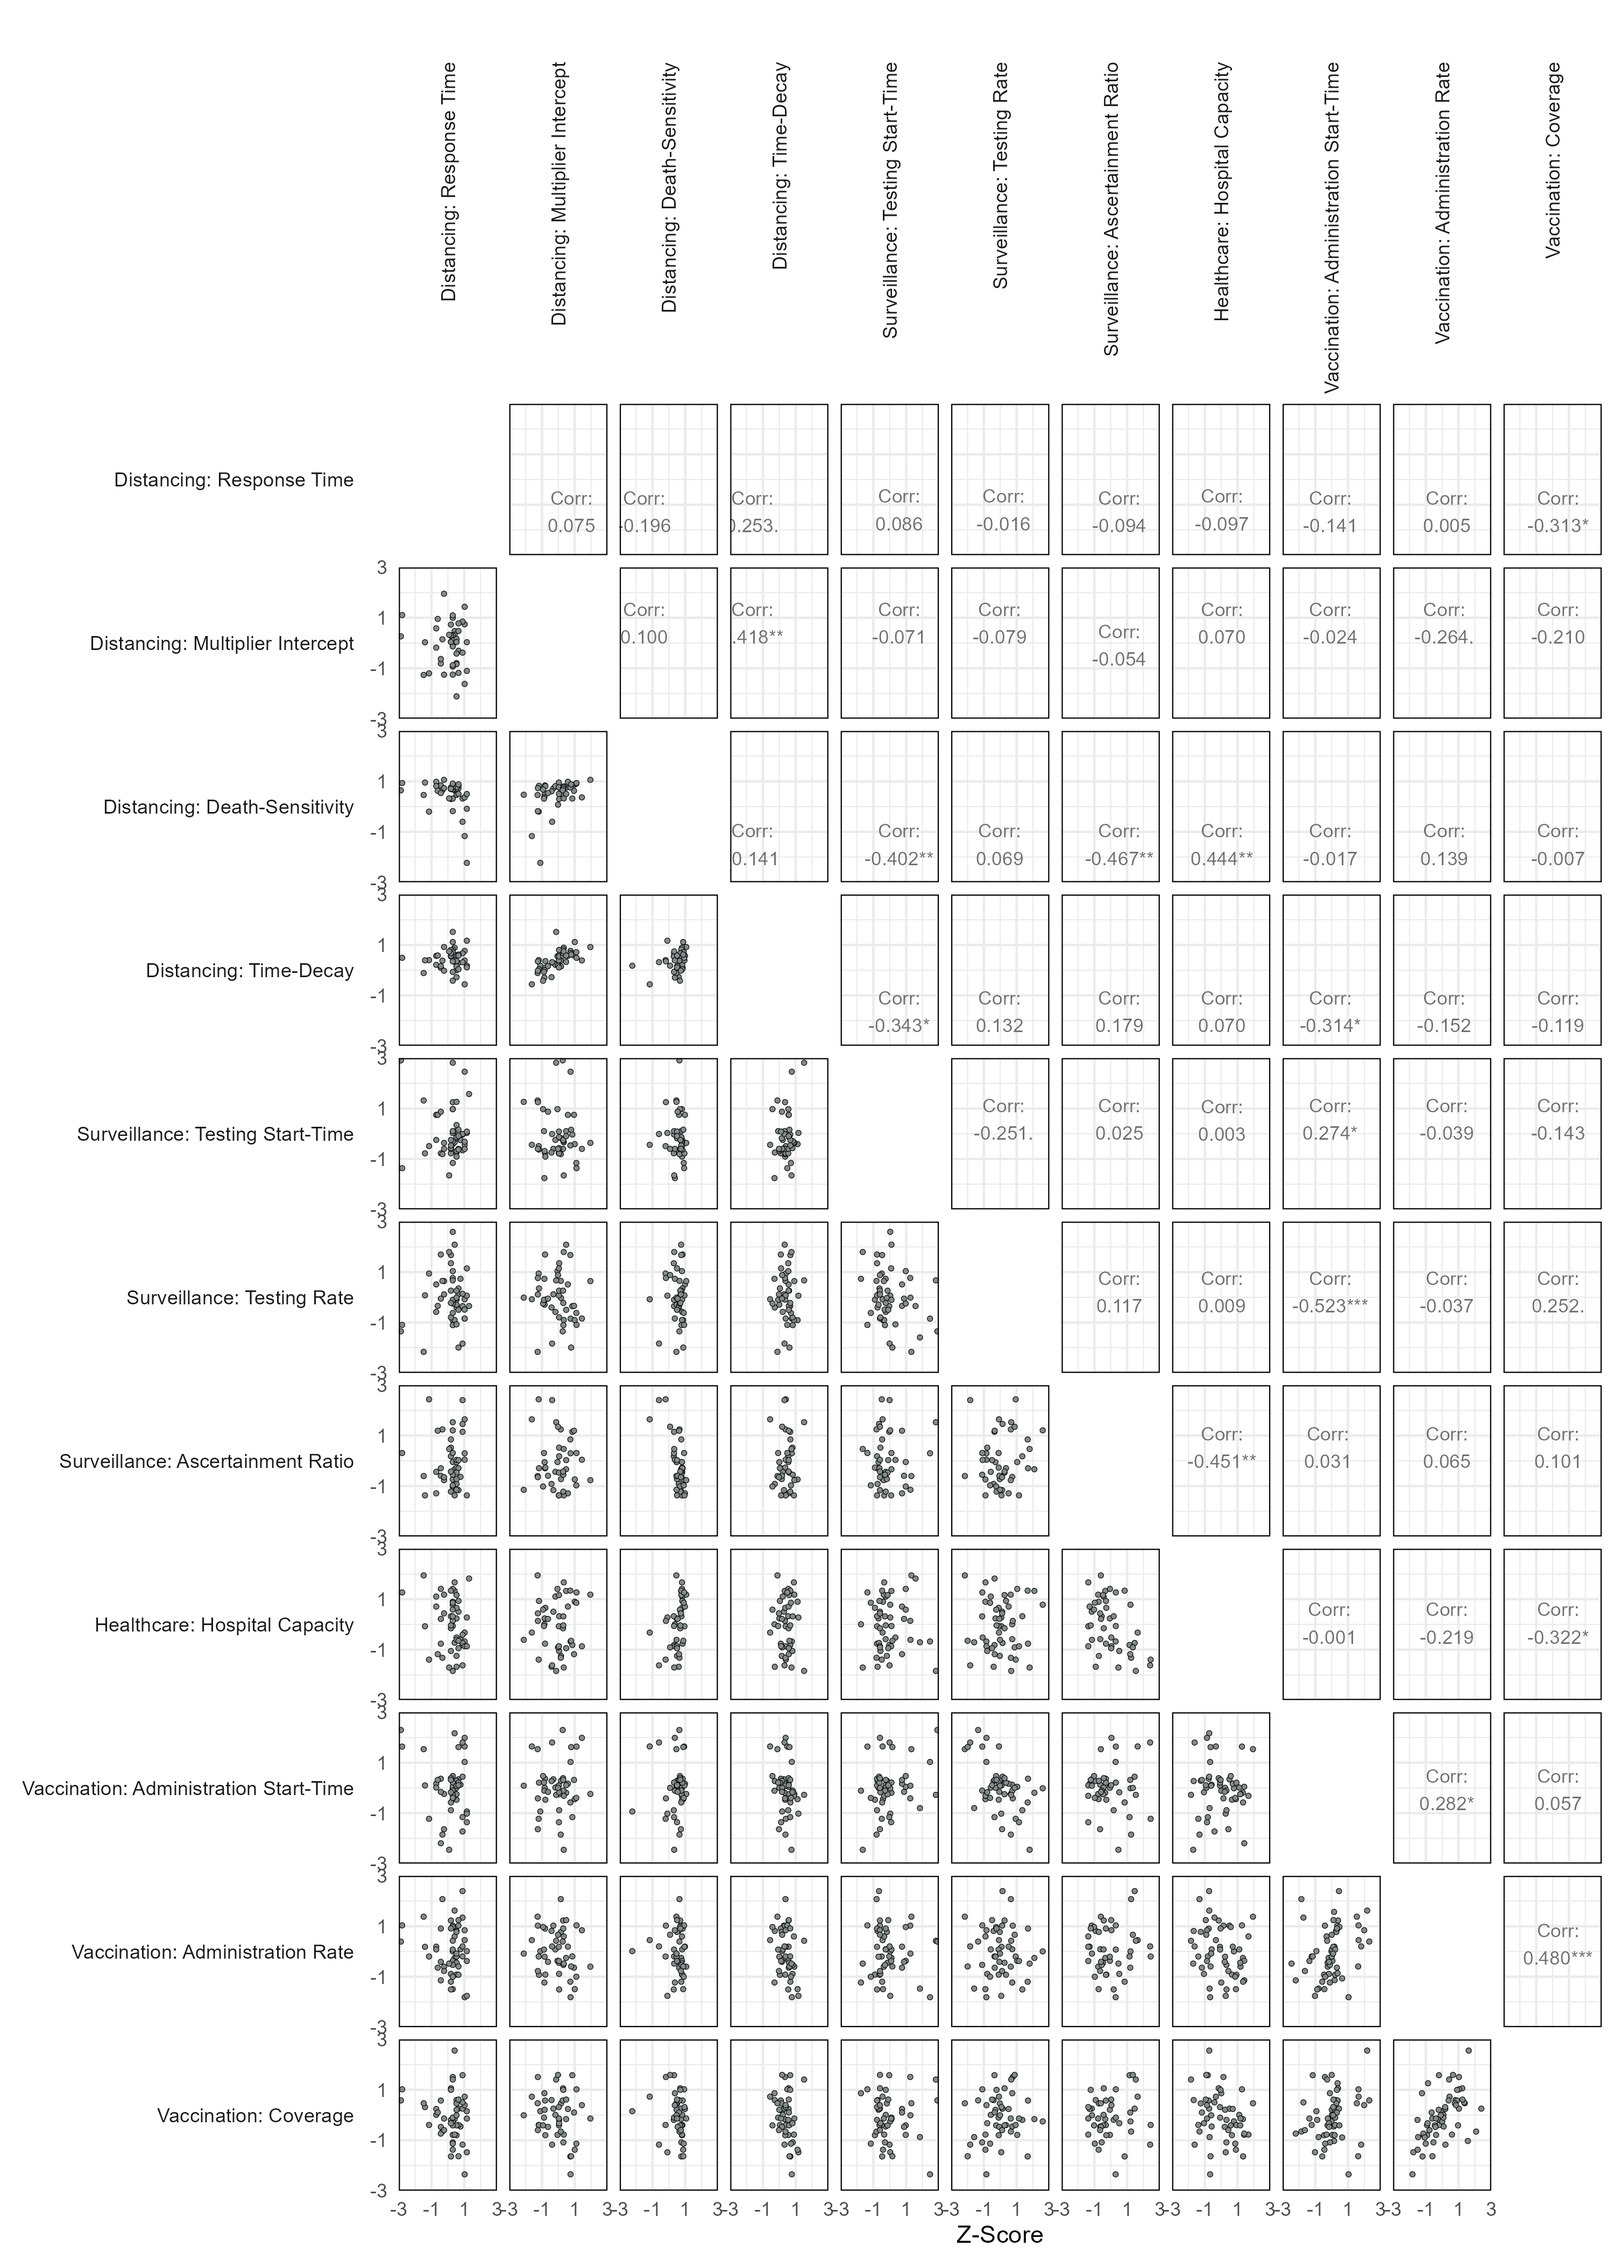
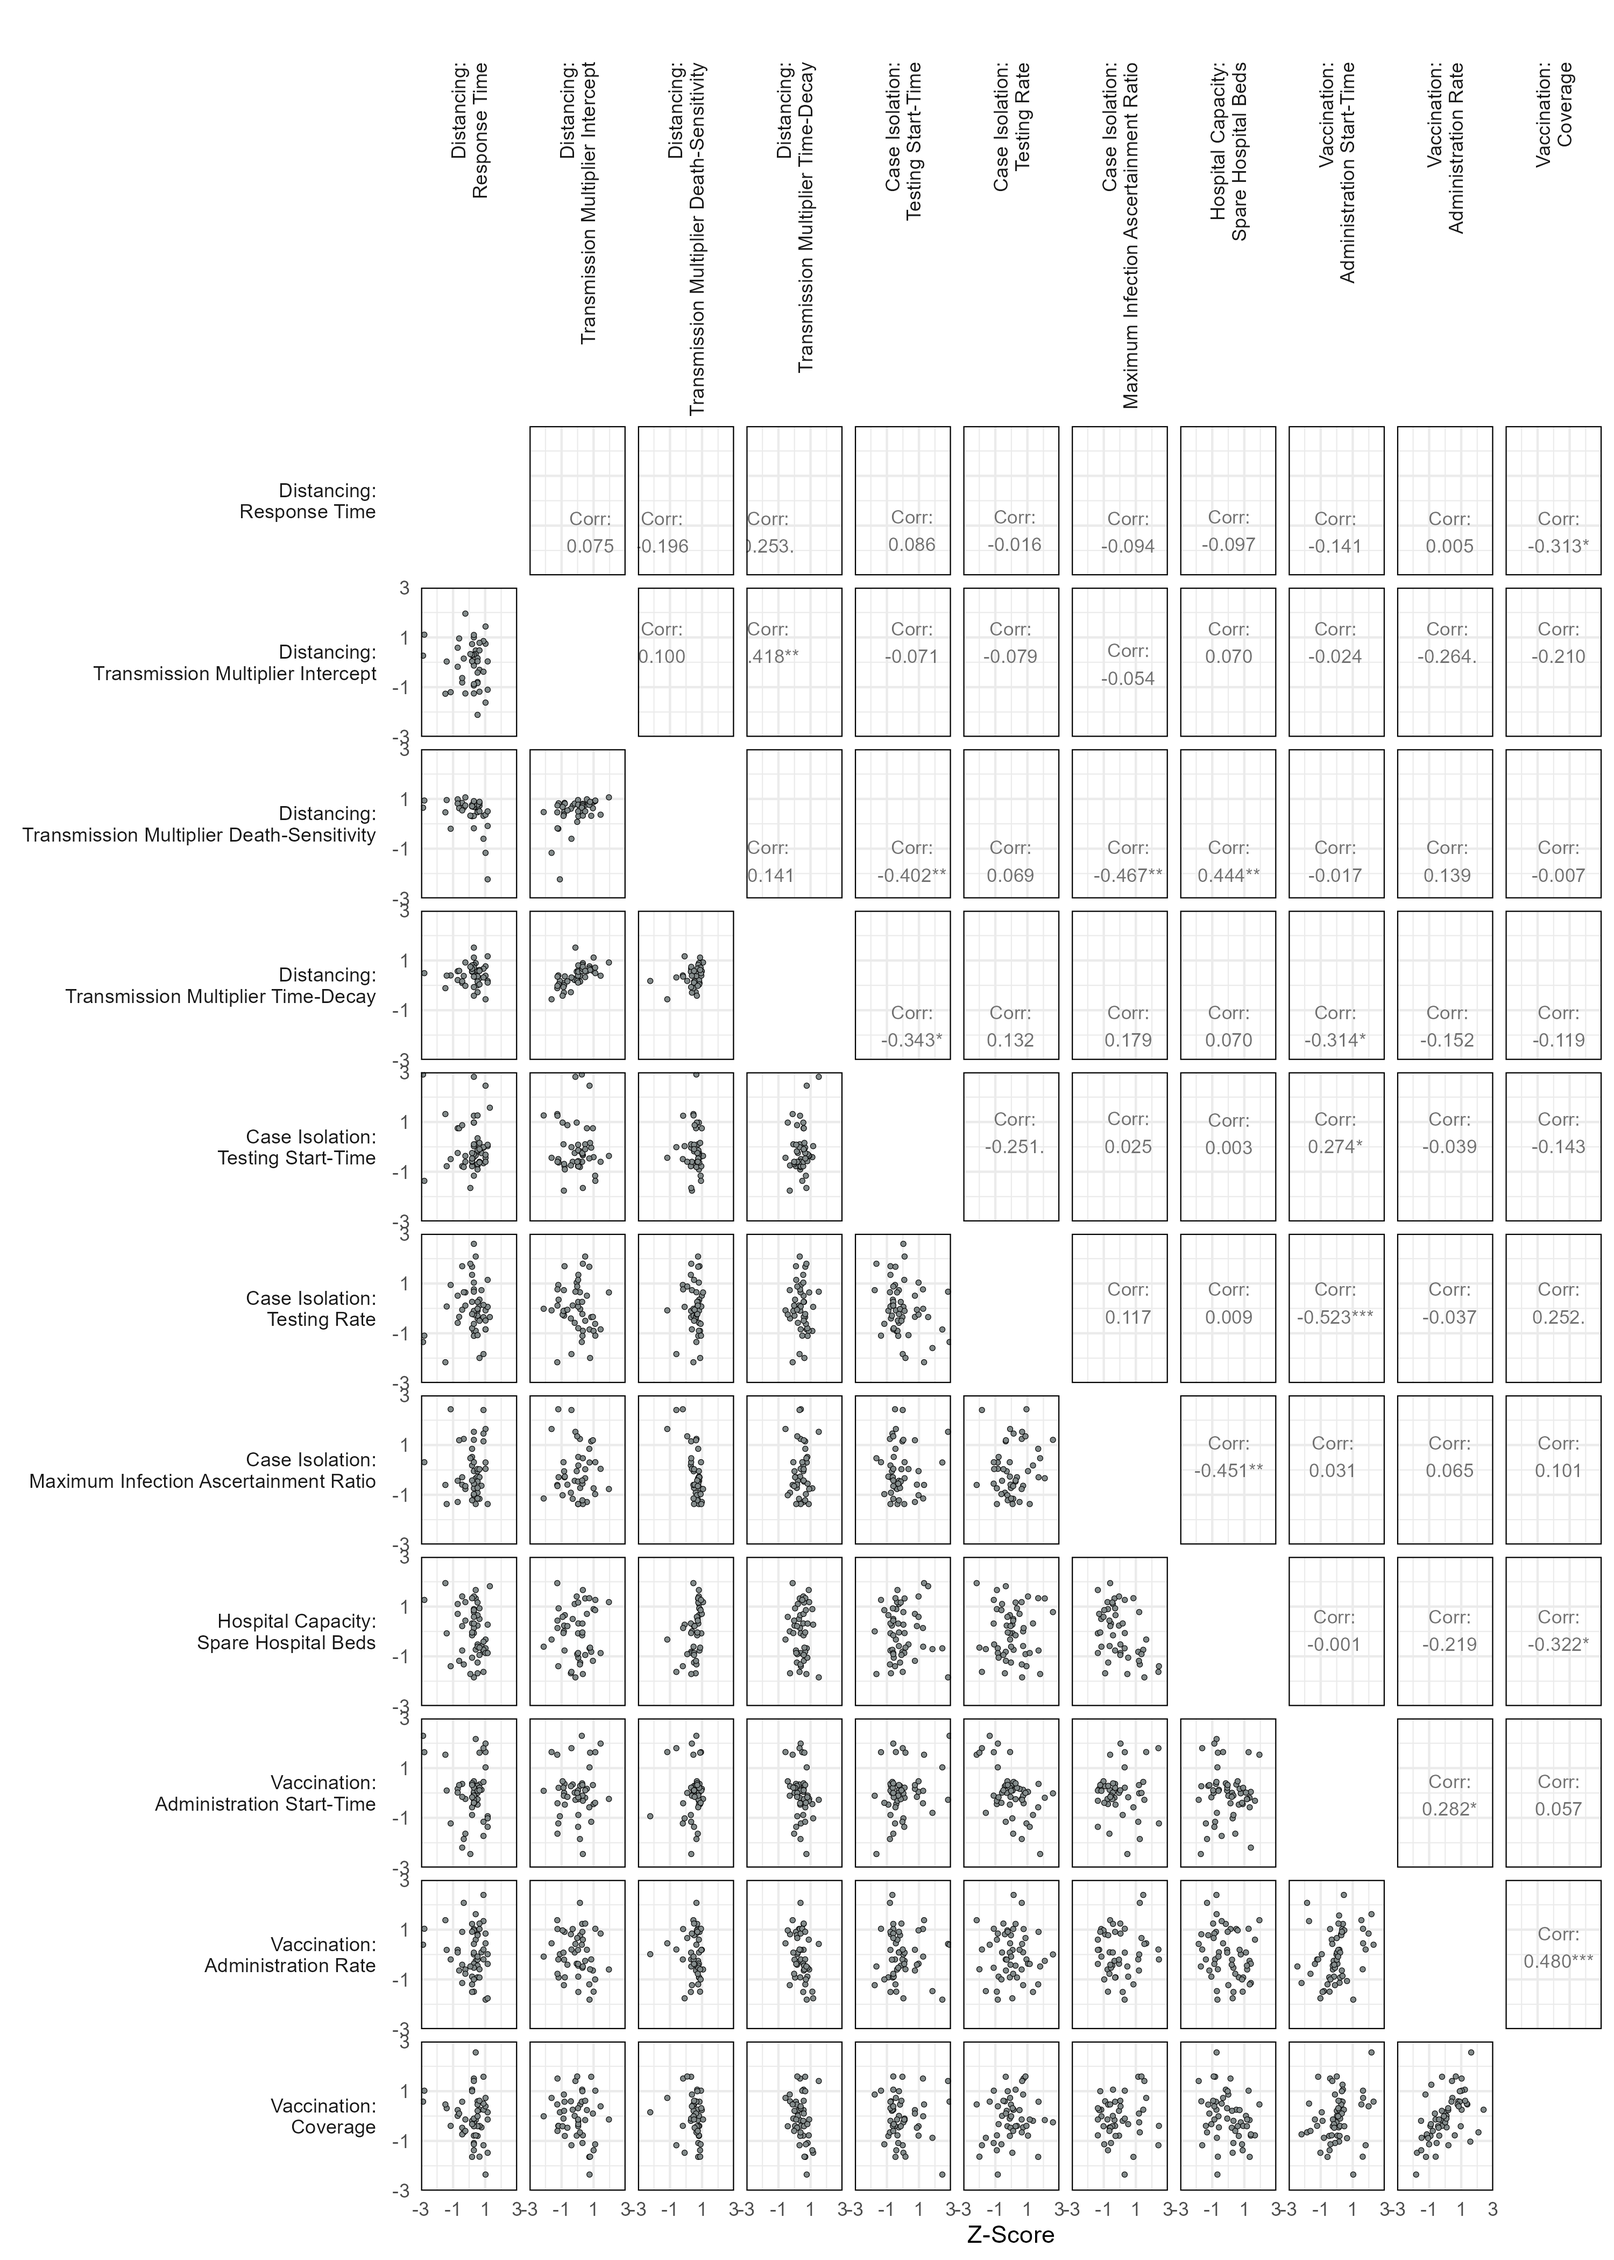
make figure terminology consistent with text

diff --git a/dd_single_plot.m b/dd_single_plot.m
@@ -147,7 +147,7 @@ ax.YColor = 'k';
 
 grid on;
 box on;
-% legend([hh1,hh2,hh3,hh4,hh5],'Prevalence (per 10m)','Hospital Occupancy (per 100m)','Hospital Capacity (per 100m)',... %%%%%
+% legend([hh1,hh2,hh3,hh4,hh5],'Prevalence (per 10m)','Hospital Occupancy (per 100m)','Spare Hospital Beds (per 100m)',... %%%%%
 %                              'Daily Deaths (per 1b)','Vaccine Coverage (\%)','location','northeast');
 t = text(8,86.6,strvcat(inp1,strrep([inp2 ' X'], ' ', '-'),inp3),'FontSize',fs);
 t.BackgroundColor = [1 1 1];
